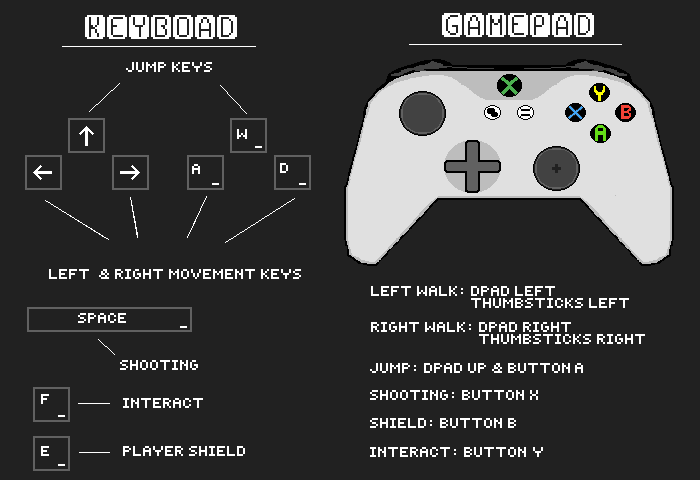
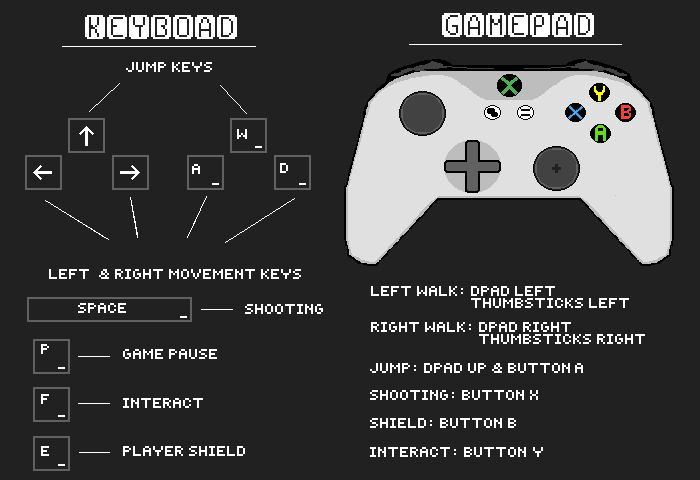
Update on the control scene New transition between End Game and Credit Light script added Bullet dmg value adjusted

Changed region(s): [[0.03, 0.5938, 0.33, 0.7812], [0.33, 0.625, 0.48, 0.6562]]

diff --git a/PhantomProjects/Decoration_/Lights.cs b/PhantomProjects/Decoration_/Lights.cs
@@ -1,0 +1,101 @@
+using Microsoft.Xna.Framework;
+using Microsoft.Xna.Framework.Content;
+using Microsoft.Xna.Framework.Graphics;
+using Microsoft.Xna.Framework.Input;
+
+namespace PhantomProjects.Decoration_
+{
+    class Lights
+    {
+        #region Declarations
+
+        public Animation lightAnimation;
+        Texture2D lightPotionTexture;
+        public Rectangle sourceRect;
+        Vector2 position;
+
+        //State of the health potion
+        public bool Active;
+
+        //Variables for the animation method
+        float elapsed;
+        float delay = 120f;
+        int Frames = 0;
+
+        //Get the width of the texture
+        public int Width
+        {
+            get { return lightAnimation.FrameWidth; }
+        }
+
+        //Get the height of the texture
+        public int Height
+        {
+            get { return lightAnimation.FrameHeight; }
+        }
+        #endregion
+
+        #region Constructor
+        //Health Potion Constructor
+        public void Initialize(ContentManager Content, Vector2 pos)
+        {
+            //Load texture
+            lightPotionTexture = Content.Load<Texture2D>("GUI\\HealthPotion");
+
+            //Initialize variables
+            Active = true;
+            position = pos;
+
+            //Create Animation
+            lightAnimation = new Animation();
+        }
+        #endregion
+
+        #region Methods
+        //Update Method
+        public void Update(GameTime gameTime)
+        {
+            //Check if the health potion is available
+            if (Active == true)
+            {
+                lightAnimation.Update(gameTime);
+                Animate(gameTime);
+
+                //Create a new rectangle around the health potion, this is to determine if the player is in range to pickup the item
+                Rectangle potionRectangle = new Rectangle((int)position.X, (int)position.Y, Width, Height);
+
+            }
+        }
+
+        //Animate Method
+        void Animate(GameTime gameTime)
+        {
+            elapsed += (float)gameTime.ElapsedGameTime.TotalMilliseconds;
+
+            if (elapsed >= delay)
+            {
+                if (Frames >= 5)
+                {
+                    Frames = 0;
+                }
+                else
+                {
+                    Frames++;
+                }
+                elapsed = 0;
+            }
+
+            sourceRect = new Rectangle((Frames * 70), 0, 70, 70);
+        }
+
+        //Draw Method
+        public void Draw(SpriteBatch spriteBatch)
+        {
+            if (Active == true)
+            {
+                spriteBatch.Draw(lightPotionTexture, position, sourceRect, Color.White);
+            }
+        }
+        #endregion
+    }
+}

diff --git a/PhantomProjects/States/EndGame.cs b/PhantomProjects/States/EndGame.cs
@@ -13,10 +13,11 @@ namespace PhantomProjects.States
         #region End Game - Declarations
         // Game Music.
         private Song menuMusic;
-        private List<Component> _components;
 
         //Static background
         Texture2D mainBackground;
+
+        int menuTimer;
         #endregion
 
         public EndGame(Game1 game, GraphicsDevice graphicsDevice, ContentManager content)
@@ -28,25 +29,9 @@ namespace PhantomProjects.States
             MediaPlayer.IsRepeating = true;
 
             //Background
-            mainBackground = content.Load<Texture2D>("Menu\\GameComplete"); 
+            mainBackground = content.Load<Texture2D>("Menu\\GameComplete");
 
-            //Buttons
-            var buttonTexture = _content.Load<Texture2D>("Menu\\MainMenu");
-            var buttonFont = _content.Load<SpriteFont>("GUI\\MenuFont");
-
-
-            var mainMenuButton = new Button(buttonTexture, buttonFont)
-            {
-                Position = new Vector2(540, 585),
-                Text = "",
-            };
-
-            mainMenuButton.Click += MainMenuButton_Click;
-
-            _components = new List<Component>()
-          {
-            mainMenuButton,
-          };
+            menuTimer = 60 * 5;
         }
 
         public override void Draw(GameTime gameTime, SpriteBatch spriteBatch)
@@ -54,24 +39,23 @@ namespace PhantomProjects.States
             spriteBatch.Begin();
             // Main background
             spriteBatch.Draw(mainBackground, new Rectangle(0, 0, 1280, 700), Color.White);
-
-            foreach (var component in _components)
-                component.Draw(gameTime, spriteBatch);
-
             spriteBatch.End();
-        }
-
-        private void MainMenuButton_Click(object sender, EventArgs e)
-        {
-            _game.ChangeState(new MenuState(_game, _graphicsDevice, _content));
         }
 
         public override void PostUpdate(GameTime gameTime) { }
 
         public override void Update(GameTime gameTime)
         {
-            foreach (var component in _components)
-                component.Update(gameTime);
+            menuTimer--;
+            ChangeScene(menuTimer);
+        }
+
+        void ChangeScene(int timer)
+        {
+            if (timer < 0)
+            {
+                _game.ChangeState(new CreditState(_game, _graphicsDevice, _content));
+            }
         }
     }
 }

diff --git a/PhantomProjects/States/TutorialState.cs b/PhantomProjects/States/TutorialState.cs
@@ -13,6 +13,7 @@ using PhantomProjects.Enemy_;
 using PhantomProjects.Map_;
 using PhantomProjects.Menus_;
 using PhantomProjects.GUI_;
+using PhantomProjects.Decoration_;
 
 namespace PhantomProjects.States
 {
@@ -96,8 +97,12 @@ namespace PhantomProjects.States
         //Button
         private List<Component> _components;
 
+        //-----------------------------------------
+        //Decoration - Light
+        Lights lightDecoration;
+
         #endregion
-        
+
         public TutorialState(Game1 game, GraphicsDevice graphicsDevice, ContentManager content)
           : base(game, graphicsDevice, content)
         {
@@ -232,6 +237,11 @@ namespace PhantomProjects.States
 
             //Doors
             door.Initialize(content, new Vector2(1600, -40));
+            #endregion
+
+            #region Decoration
+            //lightDecoration = new Lights();
+            //lightDecoration.Initialize(content, new Vector2());
             #endregion
 
             #region Game Sounds
@@ -385,7 +395,7 @@ namespace PhantomProjects.States
                 component.Update(gameTime);
 
             //Check if player has pressed P to call pause Menu
-            if (Keyboard.GetState().IsKeyDown(Keys.P))
+            if (Keyboard.GetState().IsKeyDown(Keys.P) || Keyboard.GetState().IsKeyDown(Keys.Escape))
             {
                 pauseMenu.setPauseMenu(true);
             }

diff --git a/PhantomProjects/Player_/Bullet.cs b/PhantomProjects/Player_/Bullet.cs
@@ -10,8 +10,8 @@ namespace PhantomProjects.Player_
         public Animation BulletAnimation;
         float bulletMoveSpeed;
         public Vector2 Position;
-        public int Damage = 10;
-        public int DMGUpgrade = 20;
+        public int Damage = 15;
+        public int DMGUpgrade = 2;
         public bool Active;
 
         public int Width
@@ -35,7 +35,7 @@ namespace PhantomProjects.Player_
             //Check if weapondamage has been upgraded
             if (!upgrade.ReturnDMG())
             {
-                Damage += DMGUpgrade;
+                Damage *= DMGUpgrade;
             }
 
             //Change direction of firing the bullet

diff --git a/PhantomProjects/States/GameLevel1.cs b/PhantomProjects/States/GameLevel1.cs
@@ -423,7 +423,7 @@ namespace PhantomProjects.States
                 component.Update(gameTime);
 
             //Check if player has pressed P to call pause Menu
-            if (Keyboard.GetState().IsKeyDown(Keys.P))
+            if (Keyboard.GetState().IsKeyDown(Keys.P) || Keyboard.GetState().IsKeyDown(Keys.Escape))
             {
                 pauseMenu.setPauseMenu(true);
             }

diff --git a/PhantomProjects/States/GameLevel2.cs b/PhantomProjects/States/GameLevel2.cs
@@ -445,7 +445,7 @@ namespace PhantomProjects.States
                 component.Update(gameTime);
 
             //Check if player has pressed P to call pause Menu
-            if (Keyboard.GetState().IsKeyDown(Keys.P))
+            if (Keyboard.GetState().IsKeyDown(Keys.P) || Keyboard.GetState().IsKeyDown(Keys.Escape))
             {
                 pauseMenu.setPauseMenu(true);
             }
